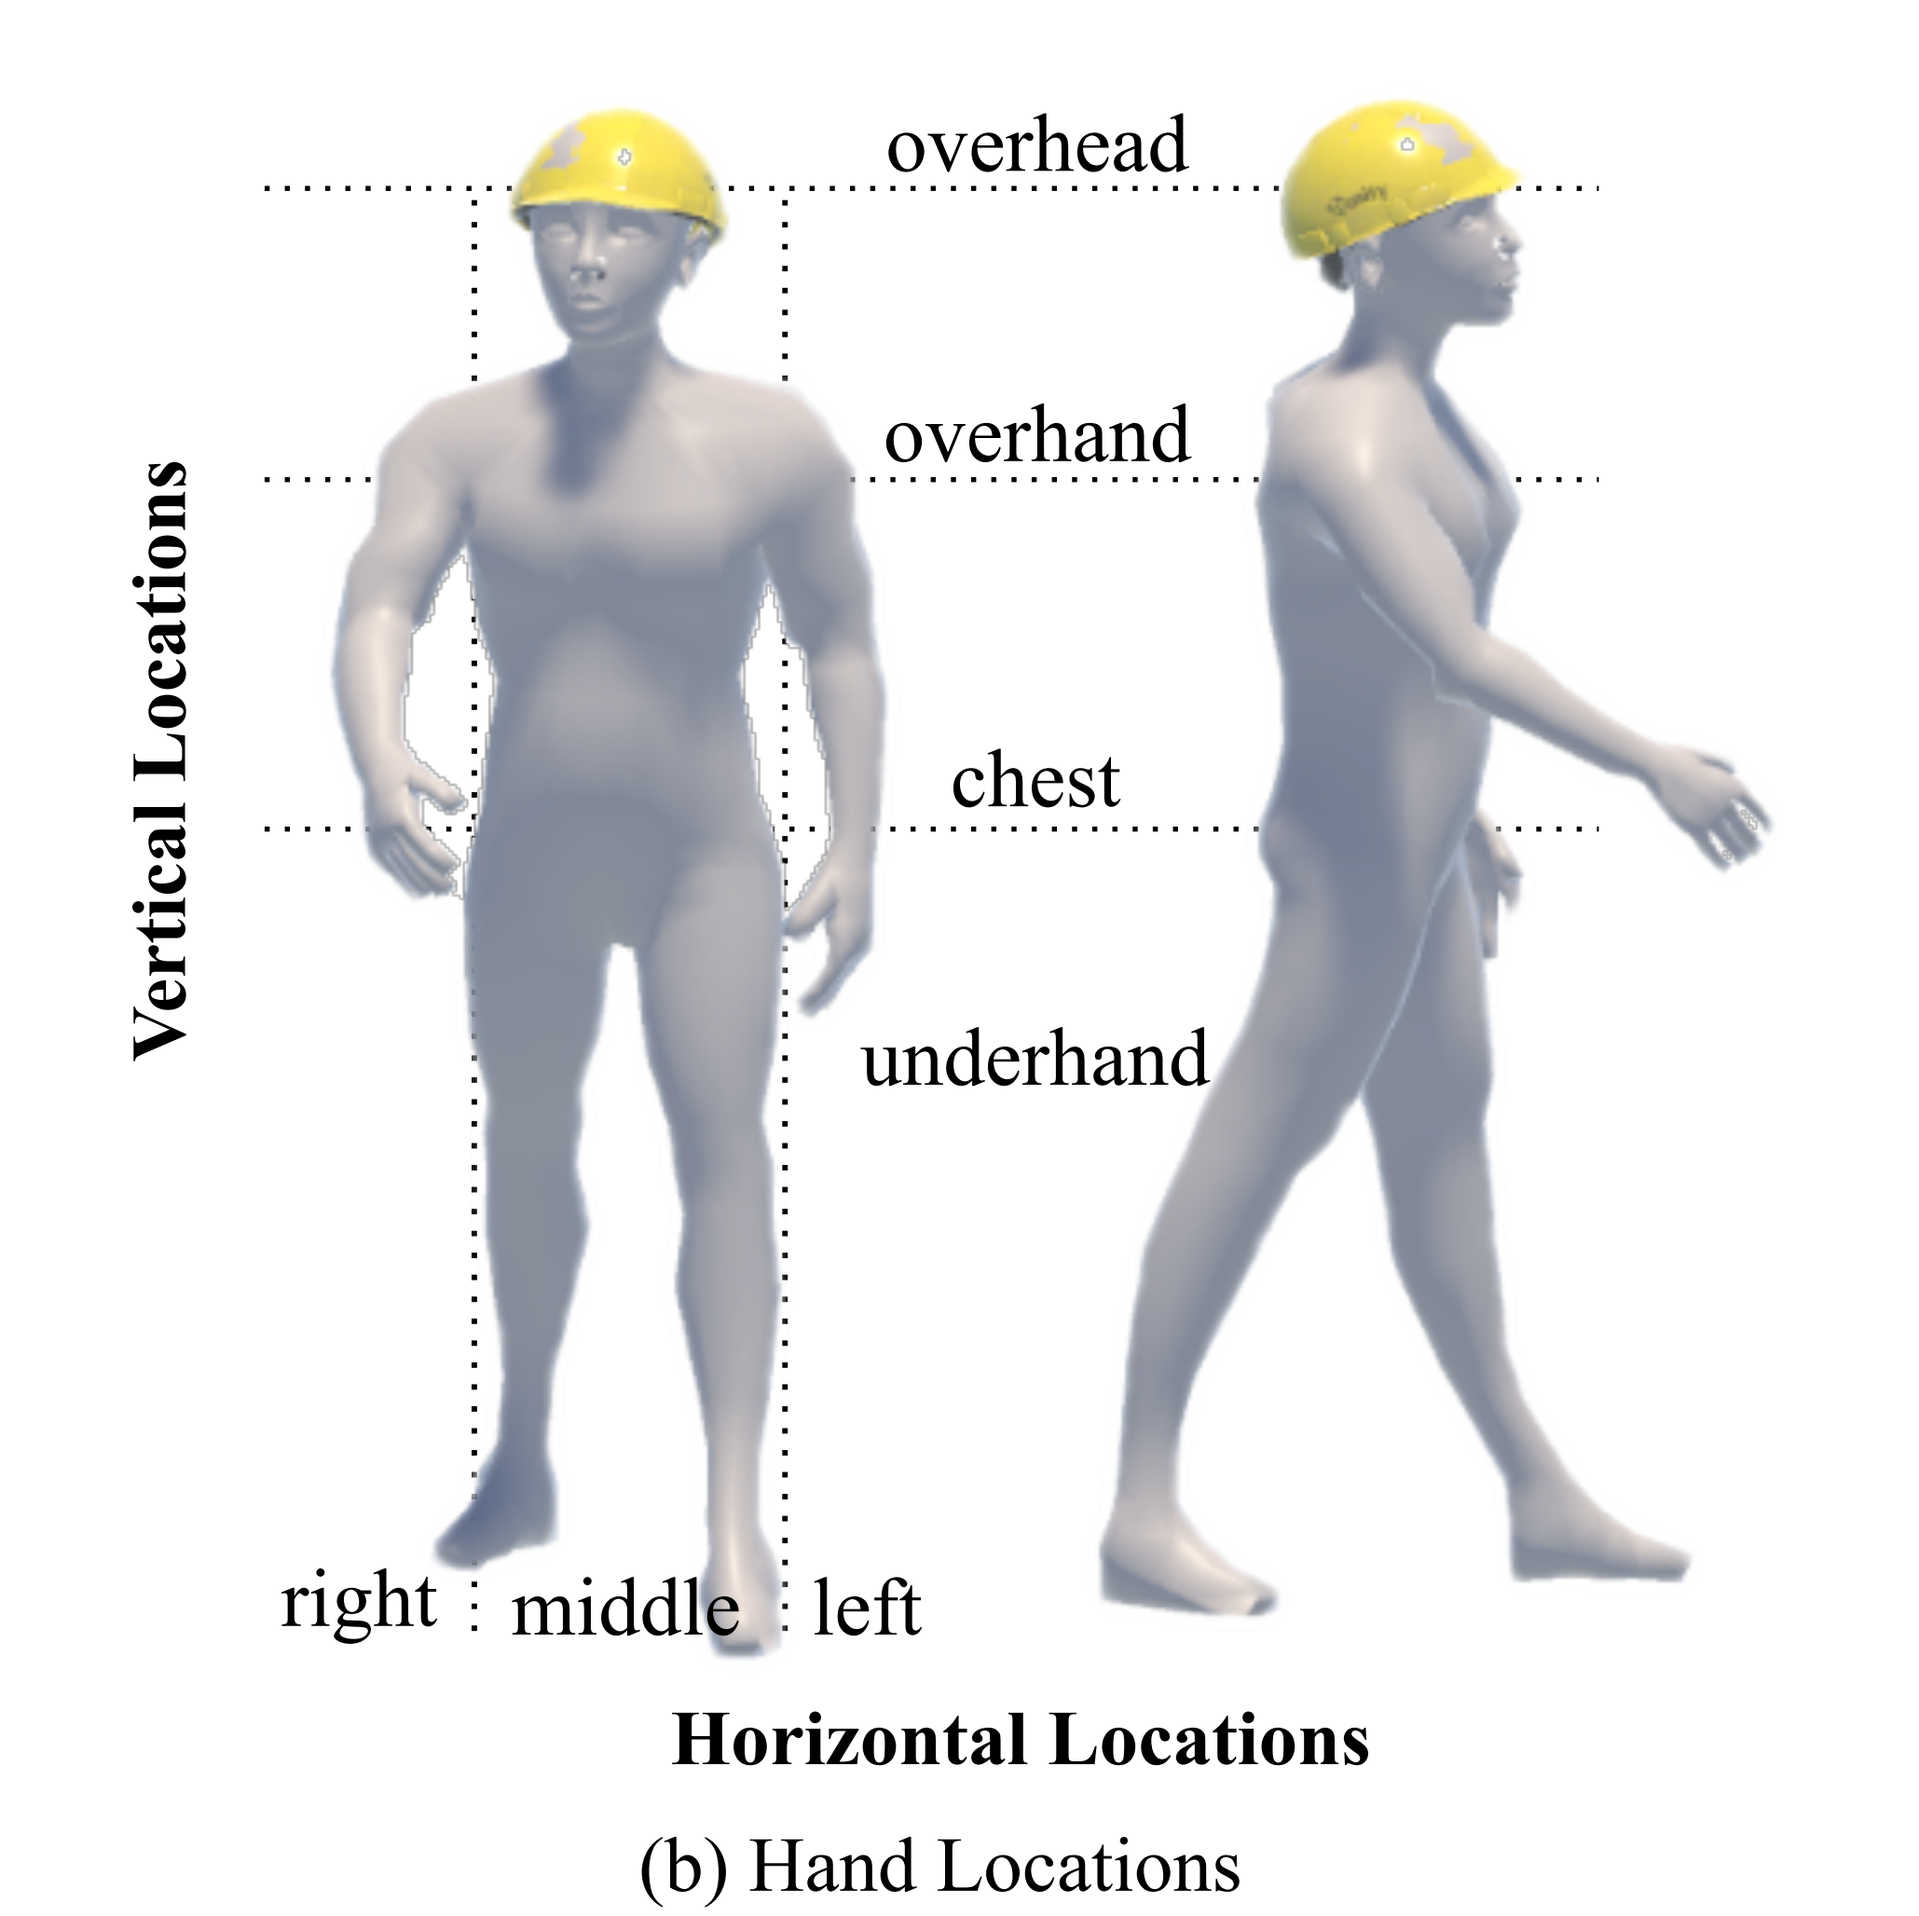
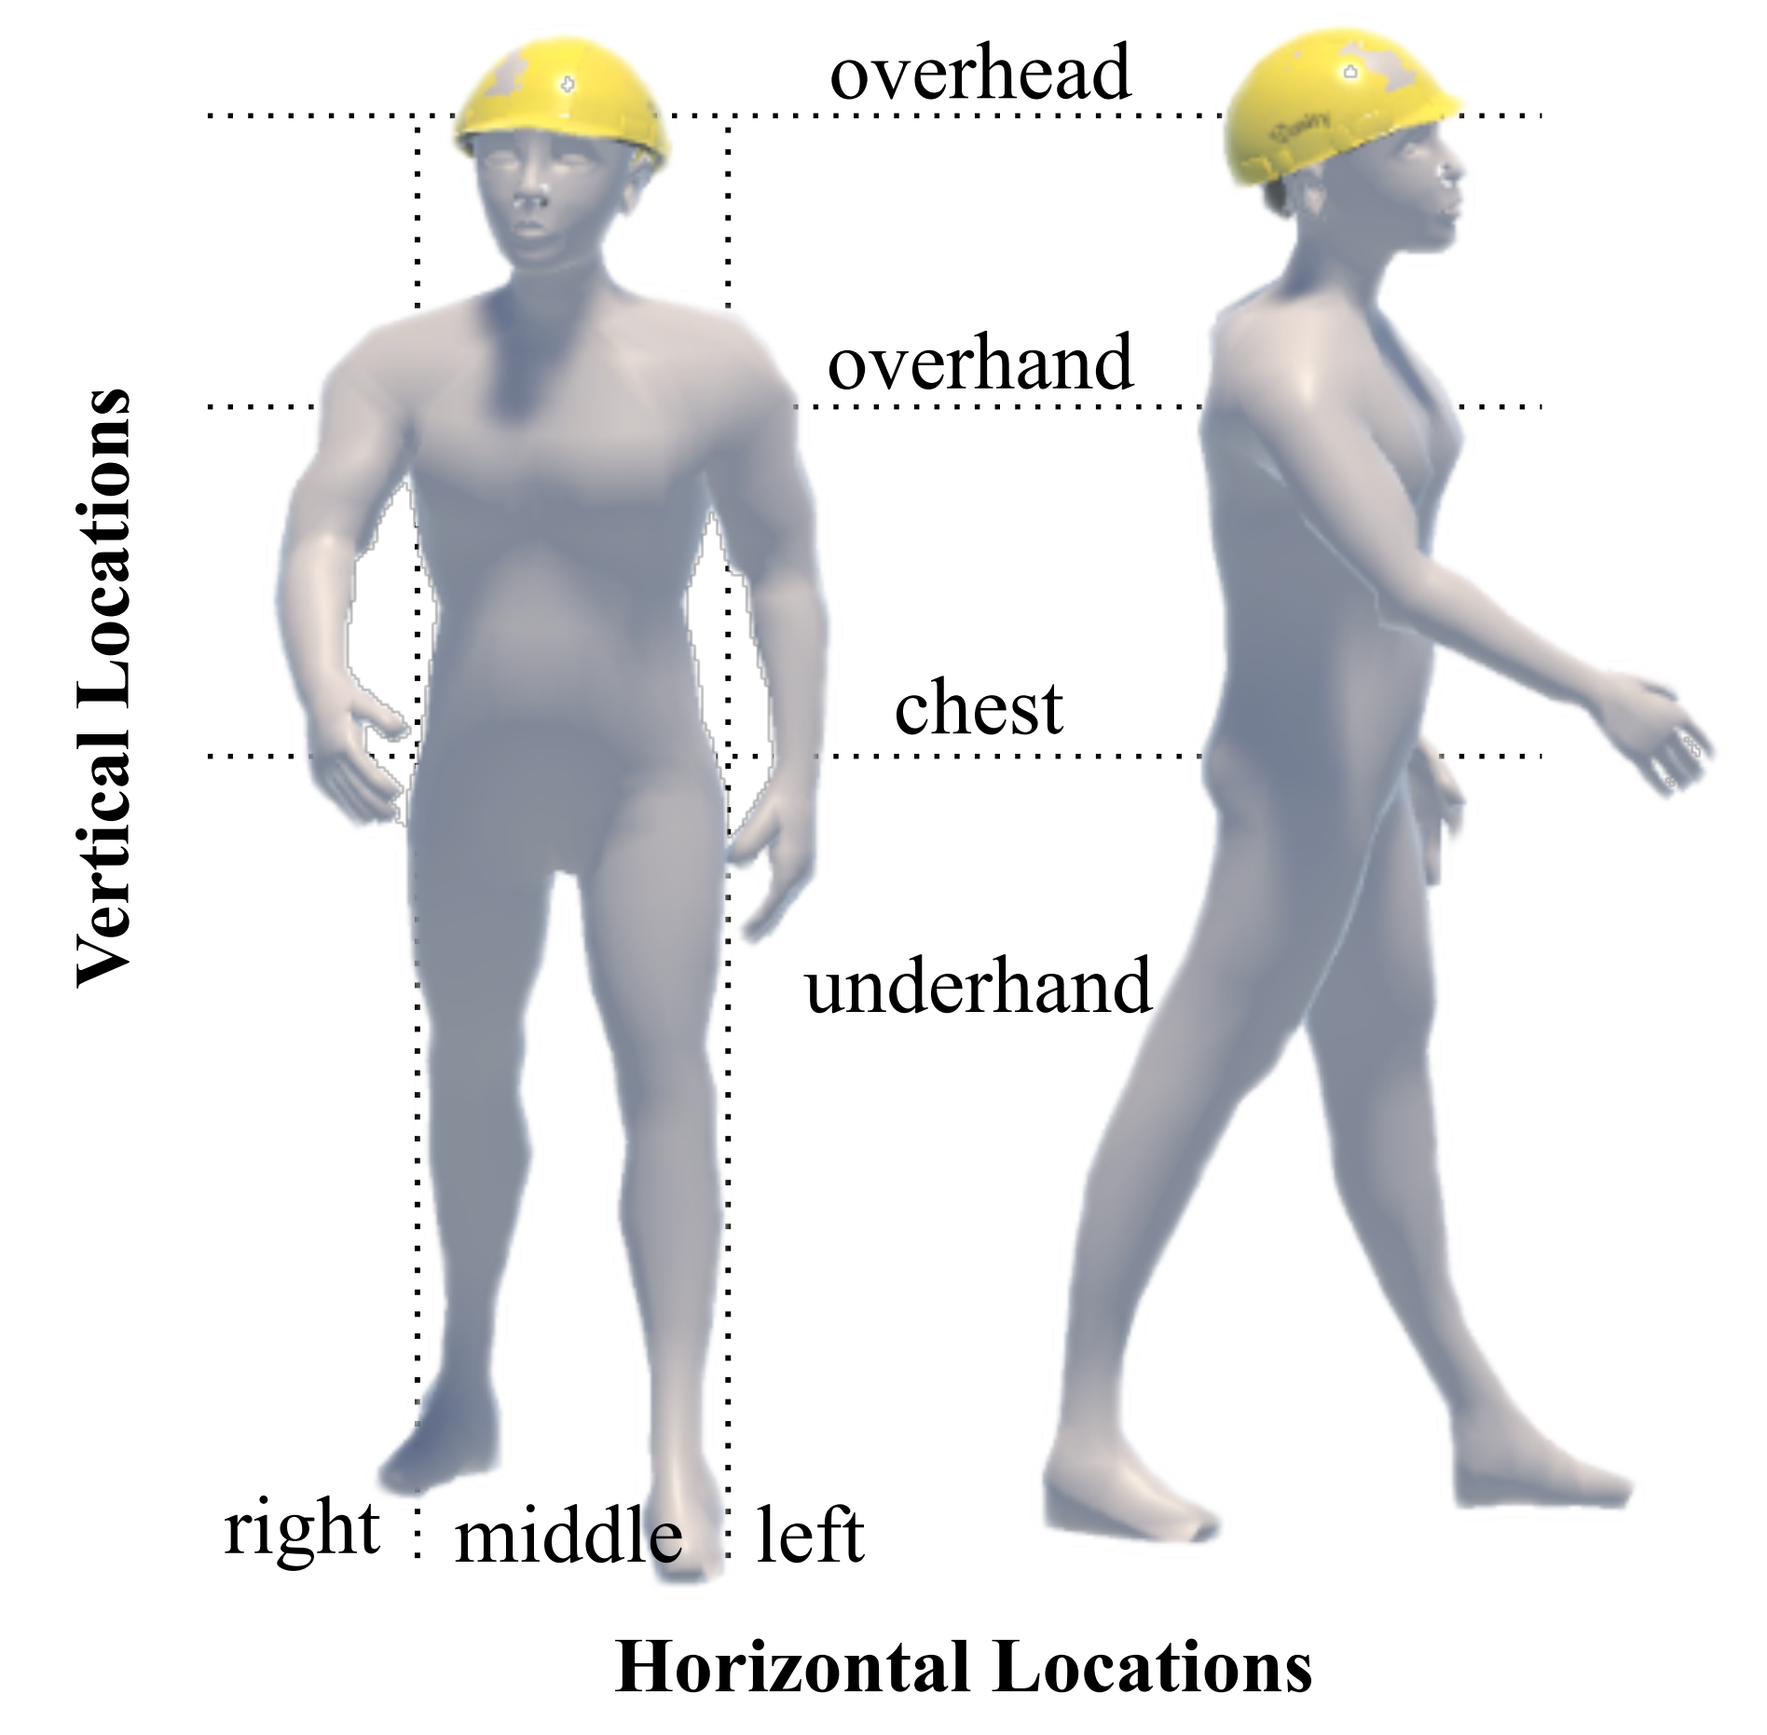
update pic

diff --git a/README.md b/README.md
@@ -265,10 +265,7 @@ You can interact with the interface to annotate labels by the keyboard as define
 The vertical and horizontal hand positions are determined according to the below illustration. 
 <center>
 <img src="https://raw.githubusercontent.com/lipengroboticsx/H2TC_code/main/doc/resources/annotation/workspace_00.png" width = "500" alt="missing_data_anno" />
-<div style="color:orange; border-bottom: 1px solid #d9d9d9;
-    display: inline-block;
-    color: #999;
-    padding: 2px;">Hand Locations</div>
+<div>Hand Locations</div>
 </center>
 <!-- #### 2. Hand position is referenced to the present human body
 
